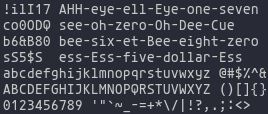
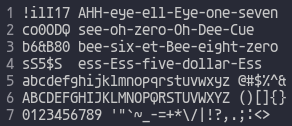
update

diff --git a/resources/public/css/style.css b/resources/public/css/style.css
@@ -251,7 +251,7 @@ table, .small, .tag, .nav a, .foot,
   display: inline-block;
   background-color: #f0f0f0;
   padding: .5em 1em;
-  line-height: 2em;
+  line-height: 1em;
   border-radius: 0;
 }
 
